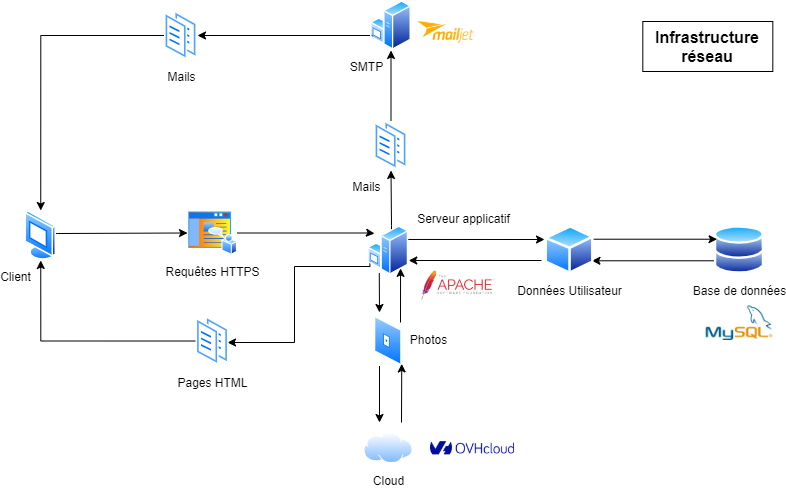
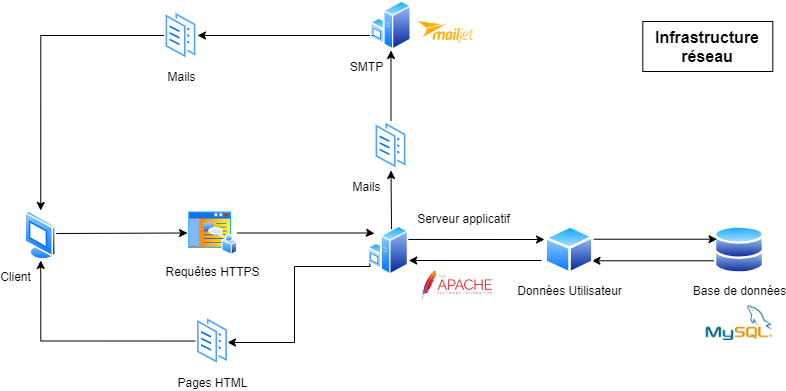
start

diff --git a/index.html b/index.html
@@ -733,8 +733,8 @@
                                 <td>239,76€</td>
                             </tr>
                         </table>
-                        <p>La solution choisie est de stocker les images sur un service cloud d'OVH et d'avoir un serveur dédié OVH pour l'application.</p>
-                        <p>OVH a très bonne réputation et un bon service client. De plus leur prix sont tout à fait resonnable au vue de la qualité de service.</p>
+                        <p>La solution choisie est d'avoir un serveur dédié OVH pour l'application et le stockage d'images.</p>
+                        <p>OVH a très bonne réputation et possède un très bon service client. De plus leur prix sont tout à fait raisonnable au vue de la qualité de service.</p>
                         <img src="images/datas/infra.png" alt="" class="archi-img">
 
 
